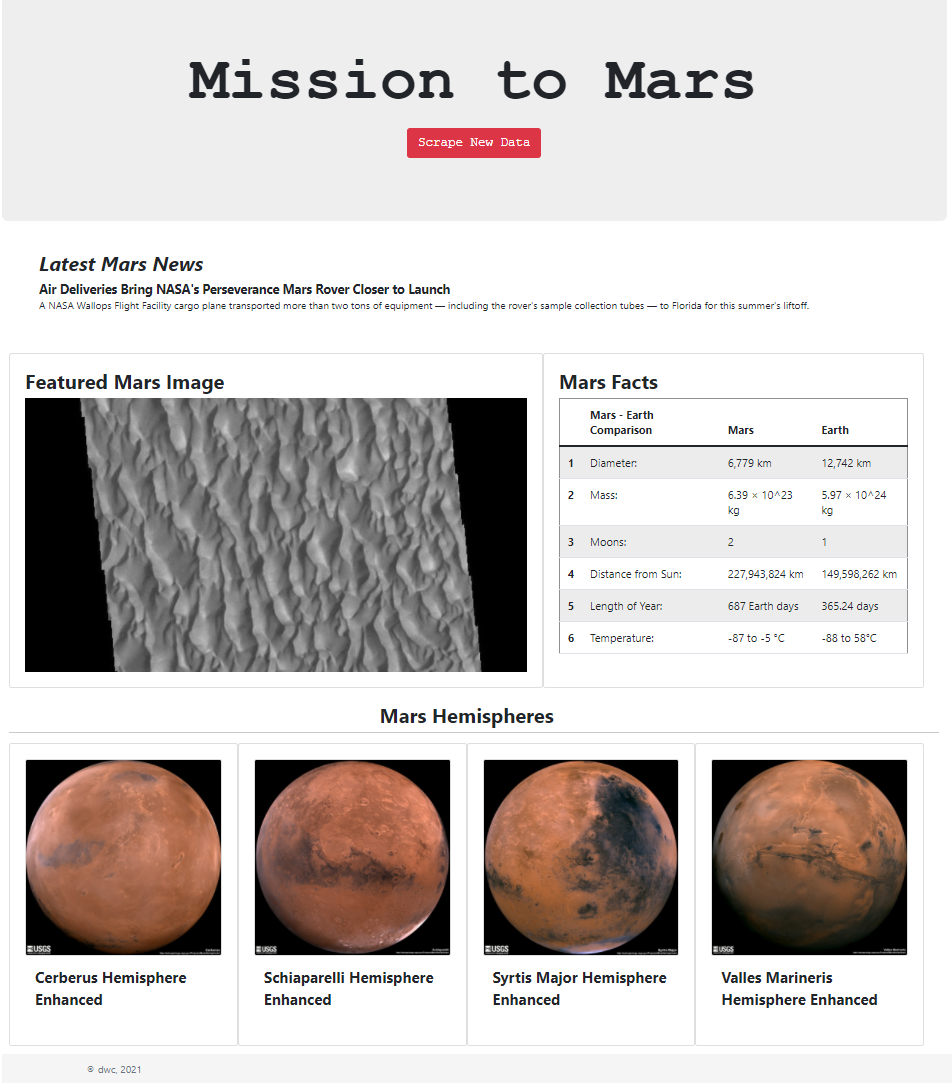
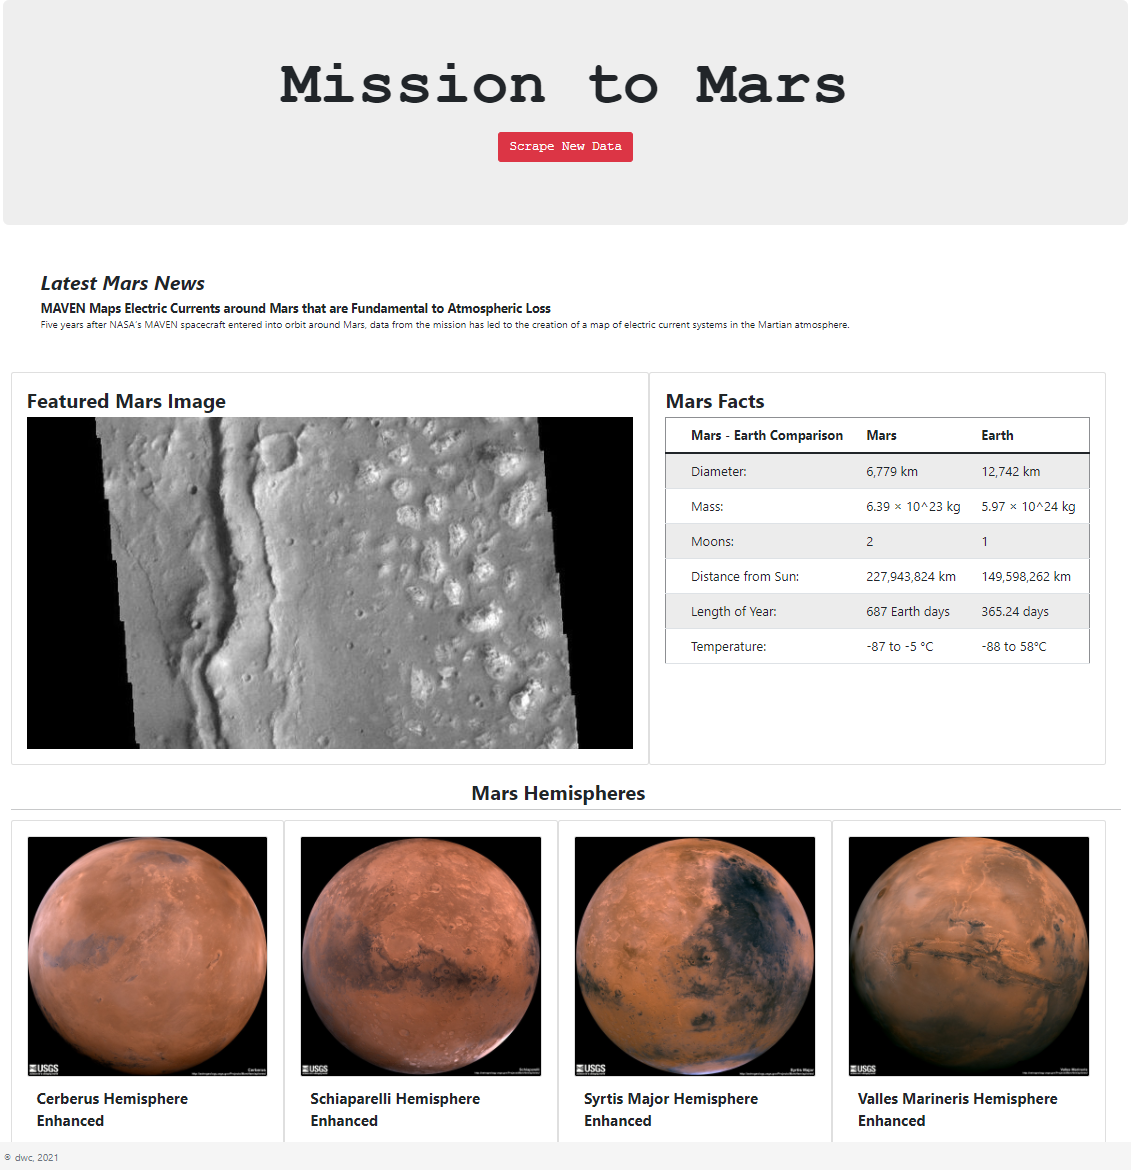
updated screenshot, ipynb, scrape app

diff --git a/Missions_to_Mars/scrape_mars.py b/Missions_to_Mars/scrape_mars.py
@@ -37,7 +37,7 @@ def scrape_info():
     new_header = table.iloc[0]
     table = table[1:]
     table.columns = new_header
-    mars_dict['htmltable'] = table .to_html(classes='table table-striped')
+    mars_dict['htmltable'] = table .to_html(classes='table table-striped', index=False)
 
     # Store data in a dictionary
     astr_url = 'https://marshemispheres.com/'
